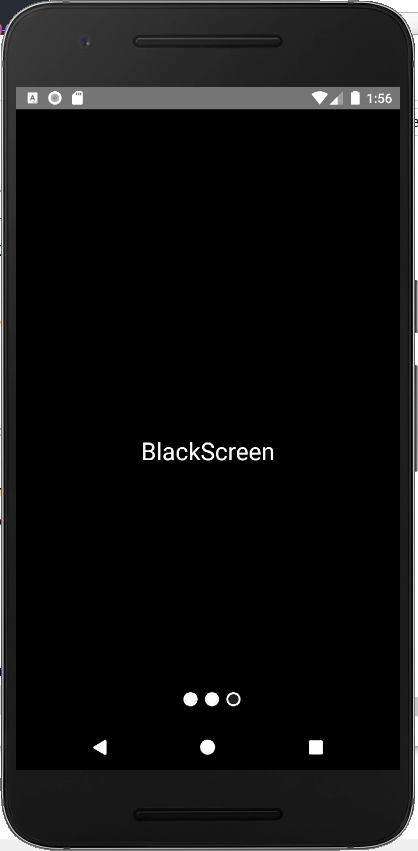
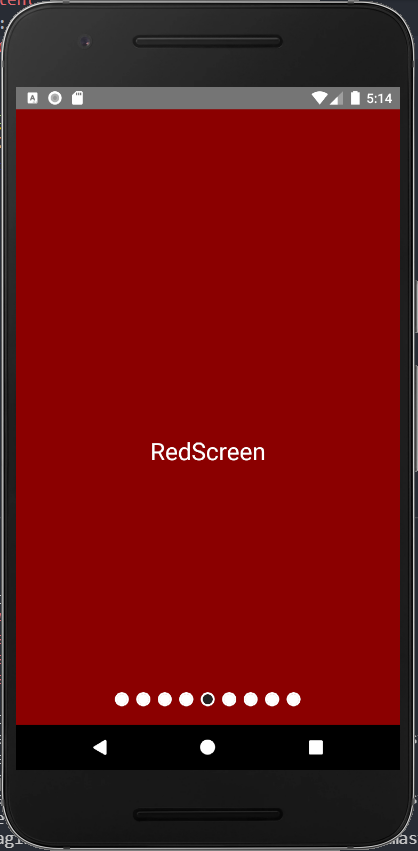
Add screenshot

diff --git a/src/component/Screen.js b/src/component/Screen.js
@@ -86,6 +86,8 @@ export default class Screen extends Component {
   }
 
   render() {
+    const { children } = this.props;
+
     return (
       <View style={styles.container}>
         <Animated.View
@@ -96,7 +98,7 @@ export default class Screen extends Component {
           ]}
           {...this._panResponder.panHandlers}
         >
-          {this.props.children.map((item, index) => {
+          {React.Children.map(children, (item, index) => {
             return (
               <View
                 key={index}

diff --git a/src/component/BlueScreen.js b/src/component/BlueScreen.js
@@ -1,5 +1,5 @@
 import React, { Component } from "react";
-import { View, Text, StyleSheet } from "react-native";
+import { View, Text, StyleSheet, Button } from "react-native";
 
 export default class BlueScreen extends Component {
   constructor(props) {
@@ -21,7 +21,7 @@ const styles = StyleSheet.create({
     flex: 1,
     justifyContent: "center",
     alignItems: "center",
-    backgroundColor: "blue"
+    backgroundColor: "lightblue"
   },
   title: {
     color: "white",

diff --git a/App.js b/App.js
@@ -18,10 +18,10 @@ const App = () => {
       <BlueScreen />
       <RedScreen />
       <BlackScreen />
-       <BlueScreen />
+      <BlueScreen />
       <RedScreen />
       <BlackScreen />
-       <BlueScreen />
+      <BlueScreen />
       <RedScreen />
       <BlackScreen />
     </Screen>

diff --git a/src/component/RedScreen.js b/src/component/RedScreen.js
@@ -16,7 +16,7 @@ const styles = StyleSheet.create({
     flex: 1,
     justifyContent: "center",
     alignItems: "center",
-    backgroundColor: "red"
+    backgroundColor: "darkred"
   },
   title: {
     color: "white",
